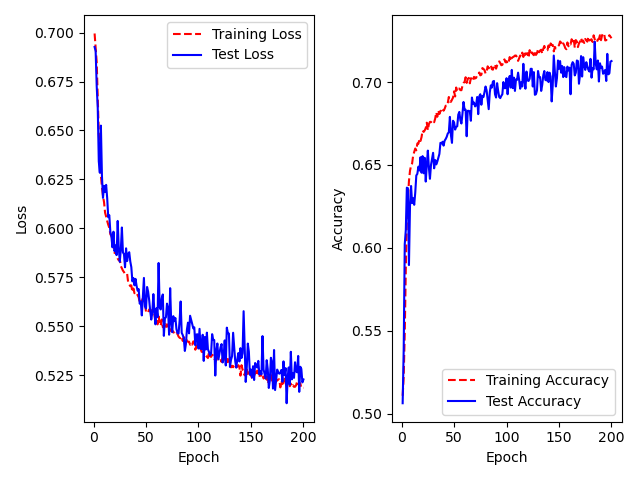
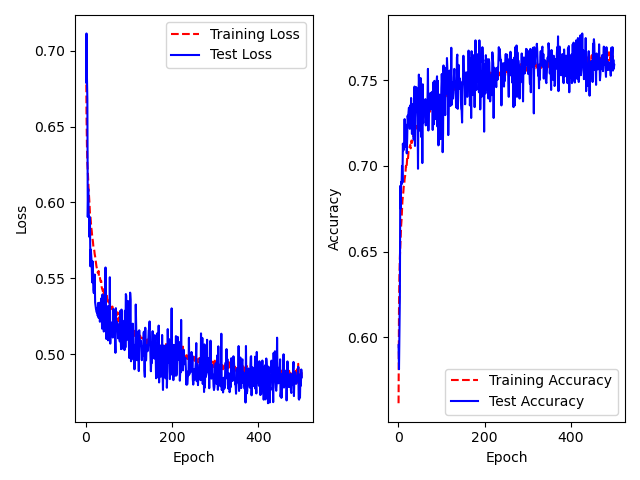
tweaks

diff --git a/experiment_2/cnn_resblock.py b/experiment_2/cnn_resblock.py
@@ -1,0 +1,161 @@
+import tensorflow as tf
+from tensorflow import keras
+from tensorflow import Tensor
+from tensorflow.keras.callbacks import TensorBoard
+from tensorflow.keras.utils import to_categorical
+from tensorflow.keras.models import Sequential, Model
+from tensorflow.keras.layers import Activation, Dense, Dropout, Flatten, Conv2D, MaxPooling2D, BatchNormalization, Add, ReLU, Input, AveragePooling2D
+
+import numpy as np
+import matplotlib.pyplot as plt
+
+gpus = tf.config.experimental.list_physical_devices('GPU')
+if gpus:
+  # Restrict TensorFlow to only allocate 2GB of memory on the first GPU
+  try:
+    tf.config.experimental.set_virtual_device_configuration(
+        gpus[0],
+        [tf.config.experimental.VirtualDeviceConfiguration(memory_limit=2048)])
+    logical_gpus = tf.config.experimental.list_logical_devices('GPU')
+    print(len(gpus), "Physical GPUs,", len(logical_gpus), "Logical GPUs")
+  except RuntimeError as e:
+    # Virtual devices must be set before GPUs have been initialized
+    print(e)
+
+data = "moz"
+mfcc_shape = 39
+length = 192
+classes = 2
+
+X_train = np.load(f'mfccs/X_train_{data}.npy').reshape(-1, mfcc_shape, length, 1)
+X_test = np.load(f'mfccs/X_test_{data}.npy').reshape(-1, mfcc_shape, length, 1)
+X_val = np.load(f'mfccs/X_val_{data}.npy').reshape(-1, mfcc_shape, length, 1)
+y_train = np.load(f'mfccs/y_train_{data}.npy')
+y_test = np.load(f'mfccs/y_test_{data}.npy')
+y_val = np.load(f'mfccs/y_val_{data}.npy')
+
+print(X_train.shape, X_test.shape, X_val.shape, len(y_train), len(y_test), len(y_val))
+
+y_train_hot = to_categorical(y_train, num_classes=classes)
+y_test_hot = to_categorical(y_test, num_classes=classes)
+y_val_hot = to_categorical(y_val, num_classes=classes)
+
+callbacks = [TensorBoard(log_dir='./logs')]
+
+def resblock(x, kernelsize, filters):
+    fx = Conv2D(filters, kernelsize, activation='relu', padding='same')(x)
+    fx = BatchNormalization()(fx)
+    fx = Conv2D(filters, kernelsize, padding='same')(fx)
+    out = Add()([x,fx])
+    out = ReLU()(out)
+    out = BatchNormalization()(out)
+    return out
+
+def relu_bn(inputs: Tensor) -> Tensor:
+    relu = ReLU()(inputs)
+    bn = BatchNormalization()(relu)
+    return bn
+
+def residual_block(x: Tensor, downsample: bool, filters: int, kernel_size: int = (3, 3)) -> Tensor:
+    y = Conv2D(kernel_size=kernel_size,
+               strides= (1 if not downsample else 2),
+               filters=filters,
+               padding="same")(x)
+    y = relu_bn(y)
+    y = Conv2D(kernel_size=kernel_size,
+               strides=1,
+               filters=filters,
+               padding="same")(y)
+
+    if downsample:
+        x = Conv2D(kernel_size=1,
+                   strides=2,
+                   filters=filters,
+                   padding="same")(x)
+    out = Add()([x, y])
+    out = relu_bn(out)
+    return out
+
+def create_res_net():
+    
+    inputs = Input(shape=(mfcc_shape, length, 1))
+    num_filters = 8
+    
+    t = BatchNormalization()(inputs)
+    t = Conv2D(kernel_size=(3, 3),
+               strides=1,
+               filters=num_filters,
+               padding="same")(t)
+    t = relu_bn(t)
+    
+    #num_blocks_list = [2, 5, 5, 2]
+    num_blocks_list = [2, 4, 2]
+    for i in range(len(num_blocks_list)):
+        num_blocks = num_blocks_list[i]
+        for j in range(num_blocks):
+            t = residual_block(t, downsample=(j==0 and i!=0), filters=num_filters)
+        num_filters *= 2
+    
+    t = AveragePooling2D(4)(t)
+    #t = MaxPooling2D(pool_size=(3, 3))(t)
+    t = Flatten()(t)
+    outputs = Dense(classes, activation='softmax')(t)
+    
+    model = Model(inputs, outputs)
+
+    # model.compile(
+    #     optimizer='adam',
+    #     loss='sparse_categorical_crossentropy',
+    #     metrics=['accuracy']
+    # )
+
+    model.compile(
+        loss=keras.losses.categorical_crossentropy,
+        optimizer=keras.optimizers.Adagrad(lr=0.01),
+        metrics=['accuracy']
+    )
+
+    return model
+
+model = create_res_net()
+
+print(X_train.shape, y_train_hot.shape, X_val.shape, y_val_hot.shape)
+print(model.summary())
+history = model.fit(X_train, y_train_hot, batch_size=64, epochs=10, verbose=1,
+            validation_data=(X_val, y_val_hot), callbacks=callbacks)
+
+
+training_loss = history.history['loss']
+test_loss = history.history['val_loss']
+
+training_acc = history.history['accuracy']
+test_acc = history.history['val_accuracy']
+
+# Create count of the number of epochs
+epoch_count = range(1, len(training_acc) + 1)
+
+# Visualize loss history
+
+plt.subplots(1, 2)
+plt.subplot(1, 2, 1)
+plt.plot(epoch_count, training_loss, 'r--')
+plt.plot(epoch_count, test_loss, 'b-')
+plt.legend(['Training Loss', 'Test Loss'])
+plt.xlabel('Epoch')
+plt.ylabel('Loss')
+
+plt.subplot(1, 2, 2)
+plt.plot(epoch_count, training_acc, 'r--')
+plt.plot(epoch_count, test_acc, 'b-')
+plt.legend(['Training Accuracy', 'Test Accuracy'])
+plt.xlabel('Epoch')
+plt.ylabel('Accuracy')
+
+plt.tight_layout()
+plt.savefig("cnn_resblock.png")
+plt.show()
+
+# what really optimized my model: smaller learning rate, larger number of epochs,
+#
+# model.save('final_tert_model.h5')
+print(model.summary())

diff --git a/experiment_2/snippet.py b/experiment_2/snippet.py
@@ -1,0 +1,75 @@
+import tensorflow as tf
+from tensorflow import keras
+from tensorflow import Tensor
+from tensorflow.keras.callbacks import TensorBoard
+from tensorflow.keras.utils import to_categorical
+from tensorflow.keras.models import Sequential, Model
+from tensorflow.keras.layers import Activation, Dense, Dropout, Flatten, Conv2D, MaxPooling2D, BatchNormalization, Add, ReLU, Input, AveragePooling2D
+import numpy as np
+import matplotlib.pyplot as plt
+
+mfcc_shape = 39
+length = 192
+classes = 2
+
+def relu_bn(inputs: Tensor) -> Tensor:
+    relu = ReLU()(inputs)
+    bn = BatchNormalization()(relu)
+    return bn
+
+def residual_block(x: Tensor, downsample: bool, filters: int, kernel_size: int = (3, 3)) -> Tensor:
+    y = Conv2D(kernel_size=kernel_size,
+               strides= (1 if not downsample else 2),
+               filters=filters,
+               padding="same")(x)
+    y = relu_bn(y)
+    y = Conv2D(kernel_size=kernel_size,
+               strides=1,
+               filters=filters,
+               padding="same")(y)
+
+    if downsample:
+        x = Conv2D(kernel_size=1,
+                   strides=2,
+                   filters=filters,
+                   padding="same")(x)
+    out = Add()([x, y])
+    out = relu_bn(out)
+    return out
+
+def create_res_net():
+    inputs = Input(shape=(mfcc_shape, length, 1))
+    num_filters = 8
+    
+    t = BatchNormalization()(inputs)
+    t = Conv2D(kernel_size=(3, 3),
+               strides=1,
+               filters=num_filters,
+               padding="same")(t)
+    t = relu_bn(t)
+    
+    num_blocks_list = [2, 4, 2]
+    for i in range(len(num_blocks_list)):
+        num_blocks = num_blocks_list[i]
+        for j in range(num_blocks):
+            t = residual_block(t, downsample=(j==0 and i!=0), filters=num_filters)
+        num_filters *= 2
+    
+    t = AveragePooling2D(4)(t)
+    t = Flatten()(t)
+    outputs = Dense(classes, activation='softmax')(t)
+    
+    model = Model(inputs, outputs)
+
+    model.compile(
+        loss=keras.losses.categorical_crossentropy,
+        optimizer=keras.optimizers.Adagrad(lr=0.01),
+        metrics=['accuracy']
+    )
+
+    return model
+
+model = create_res_net()
+
+history = model.fit(X_train, y_train_hot, batch_size=128, epochs=100, verbose=1,
+            validation_data=(X_val, y_val_hot), callbacks=callbacks)

diff --git a/experiment_2/cnn_eddie.py b/experiment_2/cnn_eddie.py
@@ -39,15 +39,6 @@ y_train_hot = to_categorical(y_train, num_classes=classes)
 y_test_hot = to_categorical(y_test, num_classes=classes)
 y_val_hot = to_categorical(y_val, num_classes=classes)
 
-def resblock(x, kernelsize, filters):
-    fx = Conv2D(filters, kernelsize, activation='relu', padding='same')(x)
-    fx = BatchNormalization()(fx)
-    fx = Conv2D(filters, kernelsize, padding='same')(fx)
-    out = Add()([x,fx])
-    out = ReLU()(out)
-    out = BatchNormalization()(out)
-    return out
-
 callbacks = [TensorBoard(log_dir='./logs')]
 
 model = Sequential()
